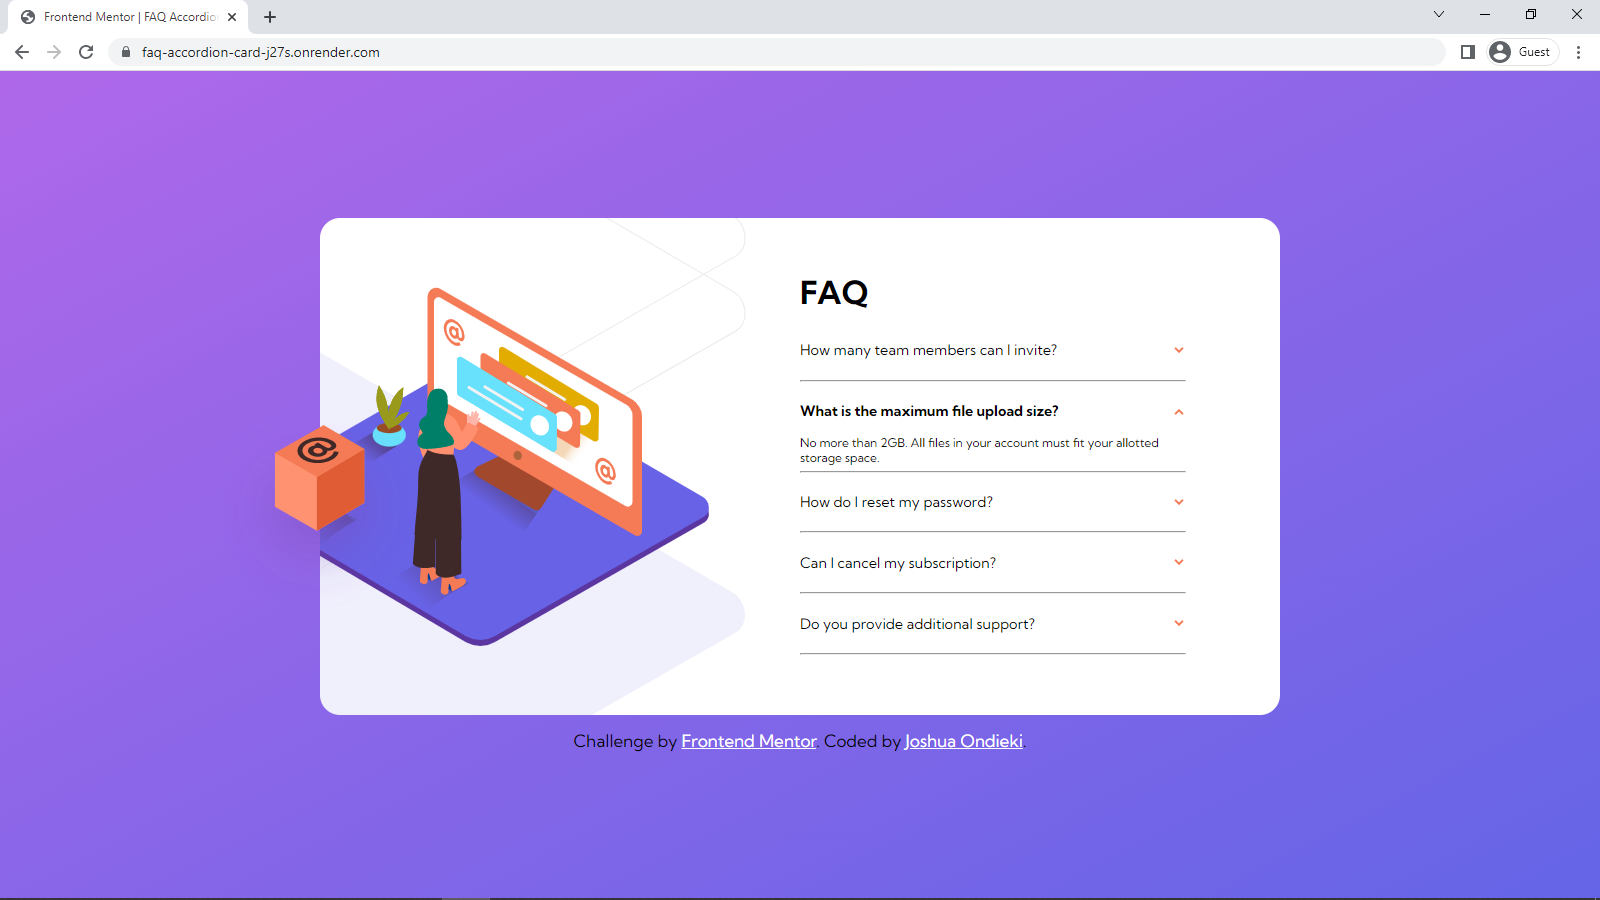
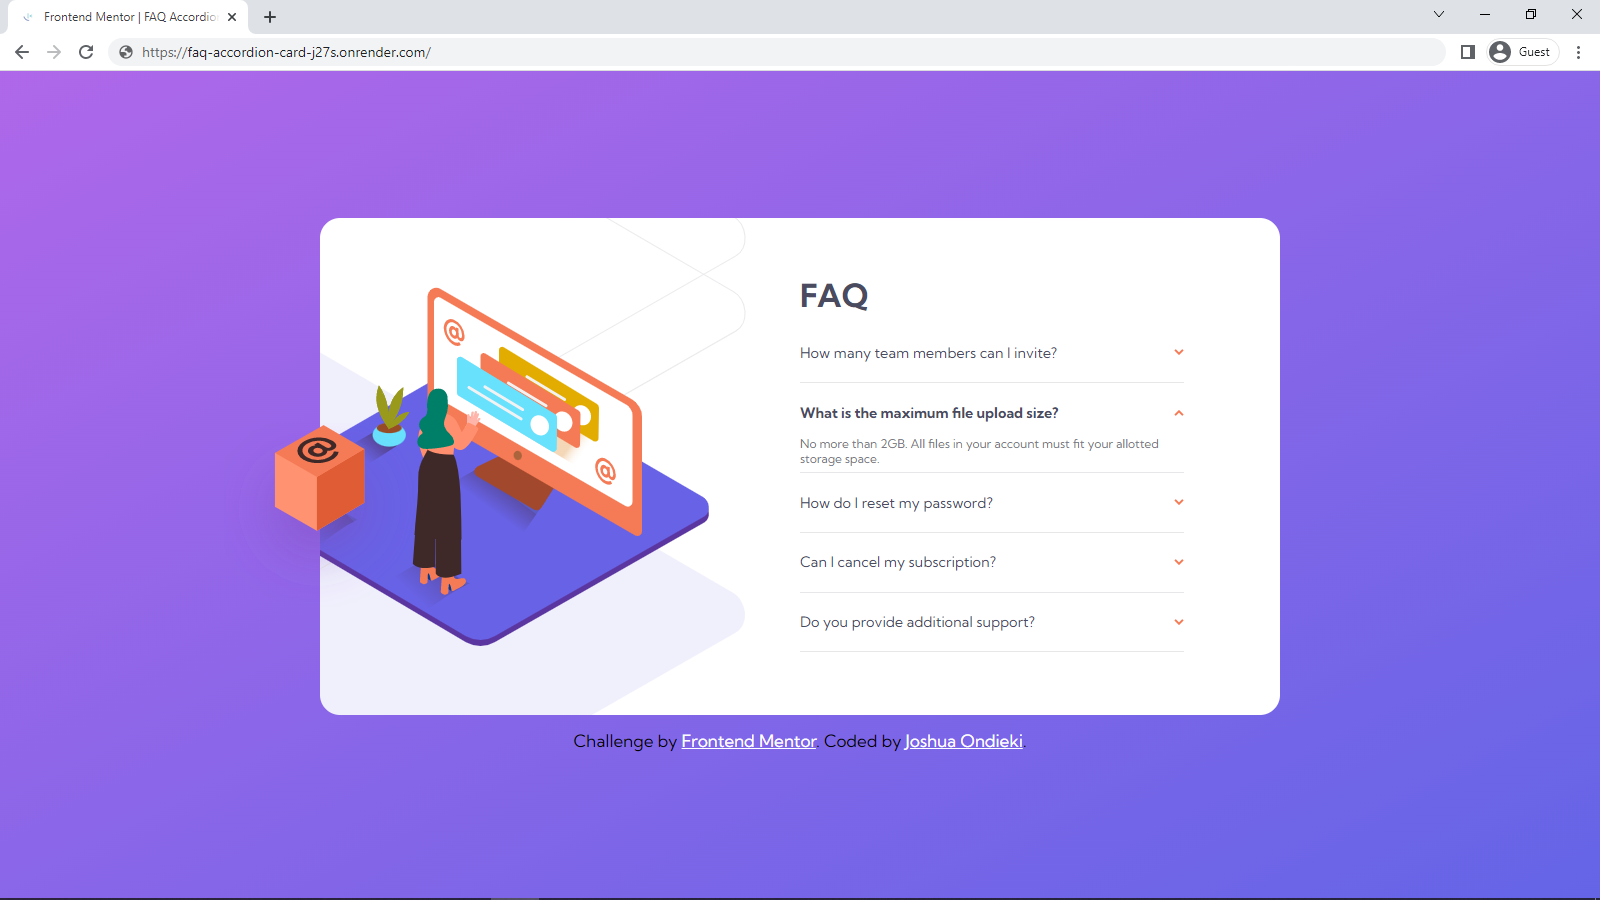
Minor styling and mobile improvements

diff --git a/styles.css b/styles.css
@@ -24,6 +24,7 @@
 body {
     align-items: center;
     background-image: linear-gradient(to bottom right, var(--soft-violet), var(--soft-blue));
+    color: var(--dark-grayish-blue);
     display: flex;
     flex-direction: column;
     font-family: "Kumbh Sans", sans-serif;
@@ -64,9 +65,14 @@ body {
 
 .faq-question {
     align-items: center;
+    cursor: pointer;
     display: flex;
     font-size: larger;
     justify-content: space-between;
+}
+
+.faq-question:hover {
+    color: var(--soft-red);
 }
 
 .faq-question img {
@@ -99,13 +105,19 @@ h1 {
 #faq-svgs {
     align-items: center;
     display: flex;
-    justify-content: flex-start;
     width: 50%;
 }
 
 hr {
     background-color: var(--light-grayish-blue);
+    border: none;
+    height: 1px;
     width: 80%;
+}
+
+
+h1, .faq-question {
+    color: var(--very-dark-grayish-blue);
 }
 
 
@@ -148,7 +160,7 @@ hr {
     }
 
     #faq-svgs {
-        height: 30%;
+        height: 25%;
         width: 70%;
     }
 
